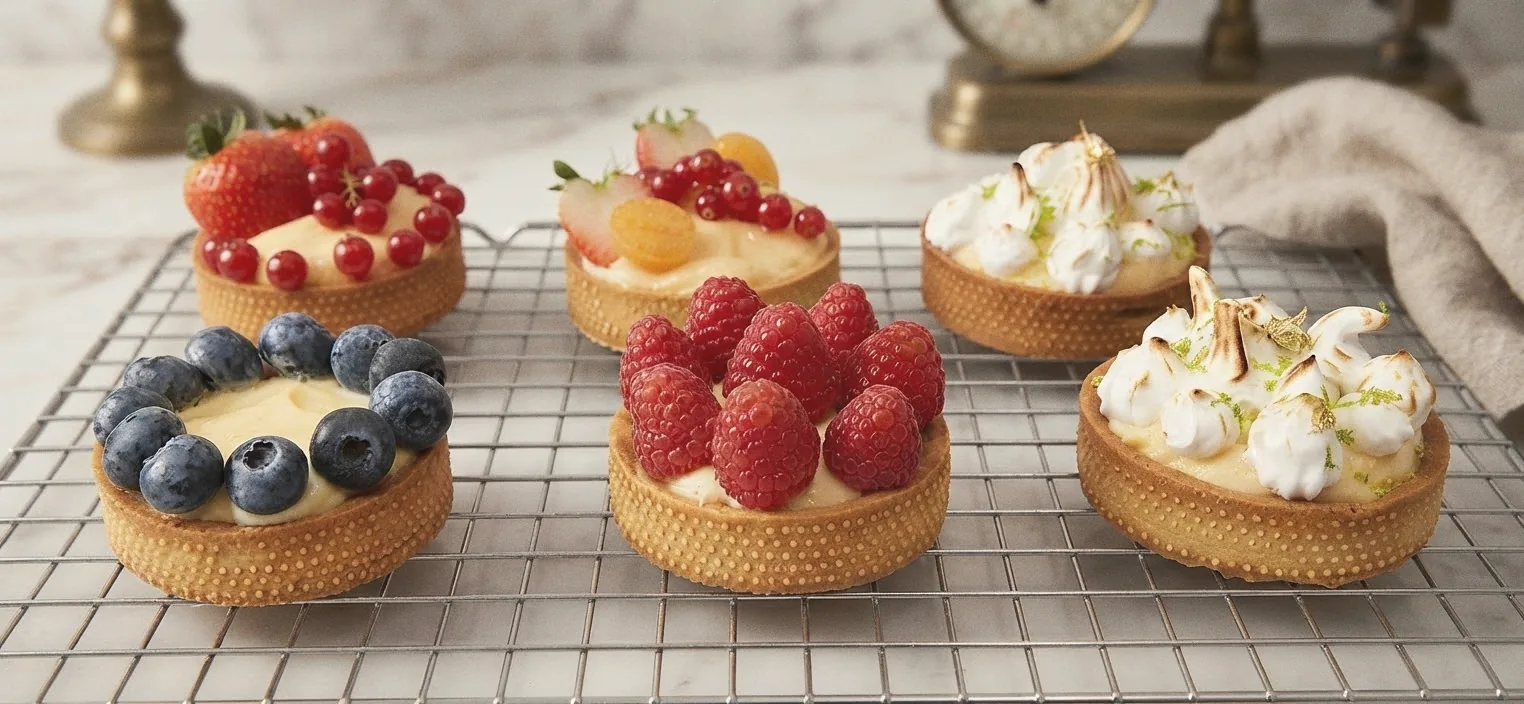
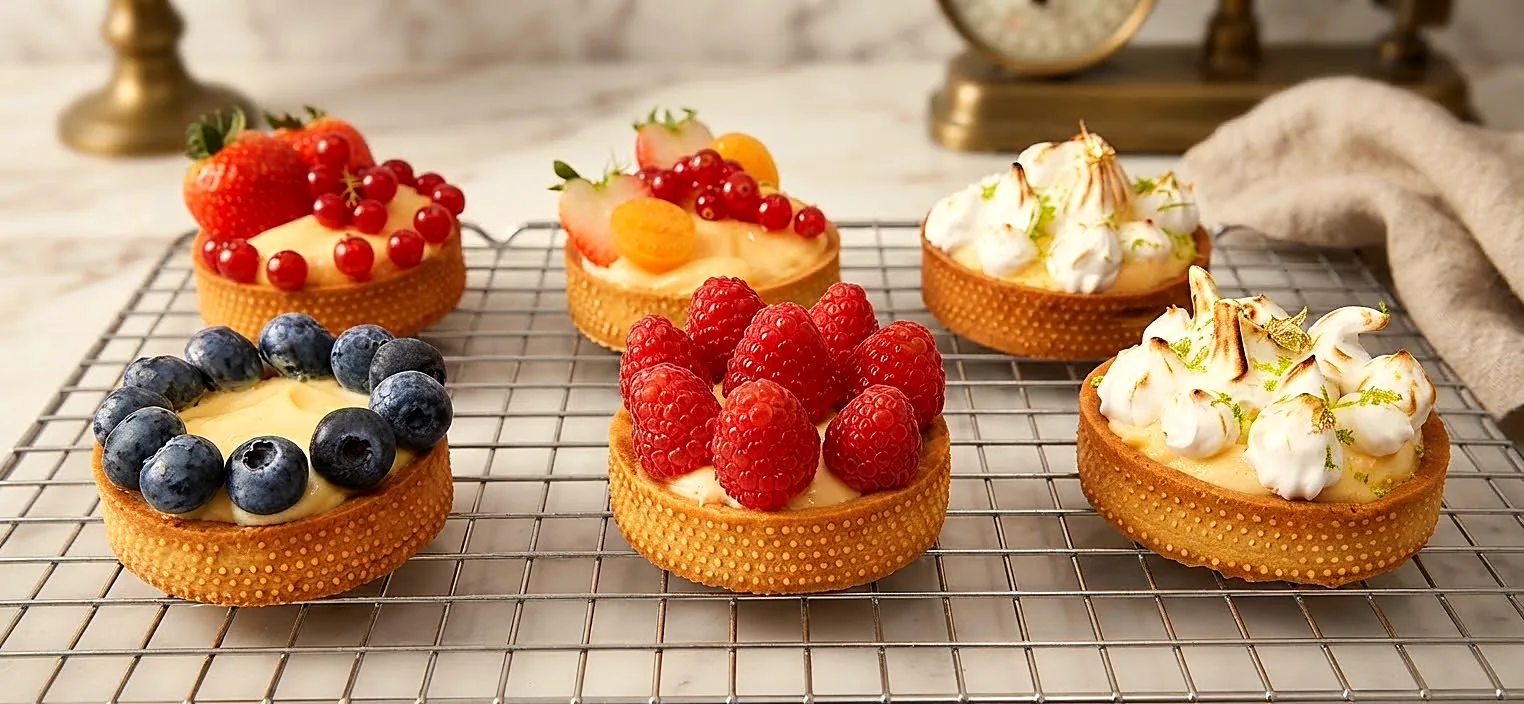
Revert product photo grading — client preferred the original look
Restores assets/img/*.webp and tools/process_photos.py's grade() to
the state before today's two grading experiments (softened, then
bolder/flatter). The client tried both and wants the original glossy
treatment back. Keeps the burgundy app icons untouched — those
predate today's photo work and weren't part of this revert.

Claude-Session: https://claude.ai/code/session_01MSnGieFbkp9mECTvhtS4Wc

diff --git a/maison-suzi/tools/process_photos.py b/maison-suzi/tools/process_photos.py
@@ -2,7 +2,7 @@
 """Dev-time only: color-grade and export the client's real product photos as WebP.
 Not shipped to production; assets/img/*.webp are the deliverable."""
 import os
-from PIL import Image, ImageEnhance, ImageOps, ImageFilter, ImageChops
+from PIL import Image, ImageEnhance, ImageOps, ImageFilter
 
 SRC = os.path.join(os.path.dirname(__file__), "..", "assets", "photos", "source")
 DST = os.path.join(os.path.dirname(__file__), "..", "assets", "img")
@@ -23,30 +23,14 @@ def grade(im: Image.Image) -> Image.Image:
     im = ImageOps.exif_transpose(im).convert("RGB")
     # Subtle warmth shift toward the site's gold/chocolate palette
     r, g, b = im.split()
-    r = r.point(lambda v: min(255, int(v * 1.02)))
-    b = b.point(lambda v: int(v * 0.98))
+    r = r.point(lambda v: min(255, int(v * 1.035)))
+    b = b.point(lambda v: int(v * 0.965))
     im = Image.merge("RGB", (r, g, b))
-    # A first pass at this (contrast 1.03, color 1.04) turned out too subtle to
-    # actually see. The real issue isn't color anyway — it's that the source
-    # photo is lit and staged like a studio shoot (dramatic rim light, propped
-    # bokeh background); grading can only push against that, not undo it. So:
-    # push much harder. Flatten the contrast well below 1 (studio shots lean on
-    # deep blacks and blown highlights — a phone photo in a kitchen doesn't),
-    # desaturate below 1 instead of boosting, and make the grain visible instead
-    # of barely-there.
-    im = ImageEnhance.Contrast(im).enhance(0.88)
-    im = ImageEnhance.Color(im).enhance(0.86)
-    im = ImageEnhance.Brightness(im).enhance(1.04)
-    im = im.filter(ImageFilter.UnsharpMask(radius=1.0, percent=15, threshold=4))
-    im = add_grain(im)
+    im = ImageEnhance.Contrast(im).enhance(1.08)
+    im = ImageEnhance.Color(im).enhance(1.14)
+    im = ImageEnhance.Brightness(im).enhance(1.02)
+    im = im.filter(ImageFilter.UnsharpMask(radius=1.4, percent=60, threshold=2))
     return im
-
-def add_grain(im: Image.Image, sigma: int = 22, amount: float = 0.22) -> Image.Image:
-    """Visible film-like grain so the photo reads as a real capture instead of
-    a too-clean render."""
-    noise = Image.effect_noise(im.size, sigma).convert("RGB")
-    textured = ImageChops.overlay(im, noise)
-    return Image.blend(im, textured, amount)
 
 def resize_cap(im: Image.Image, max_edge: int) -> Image.Image:
     w, h = im.size
